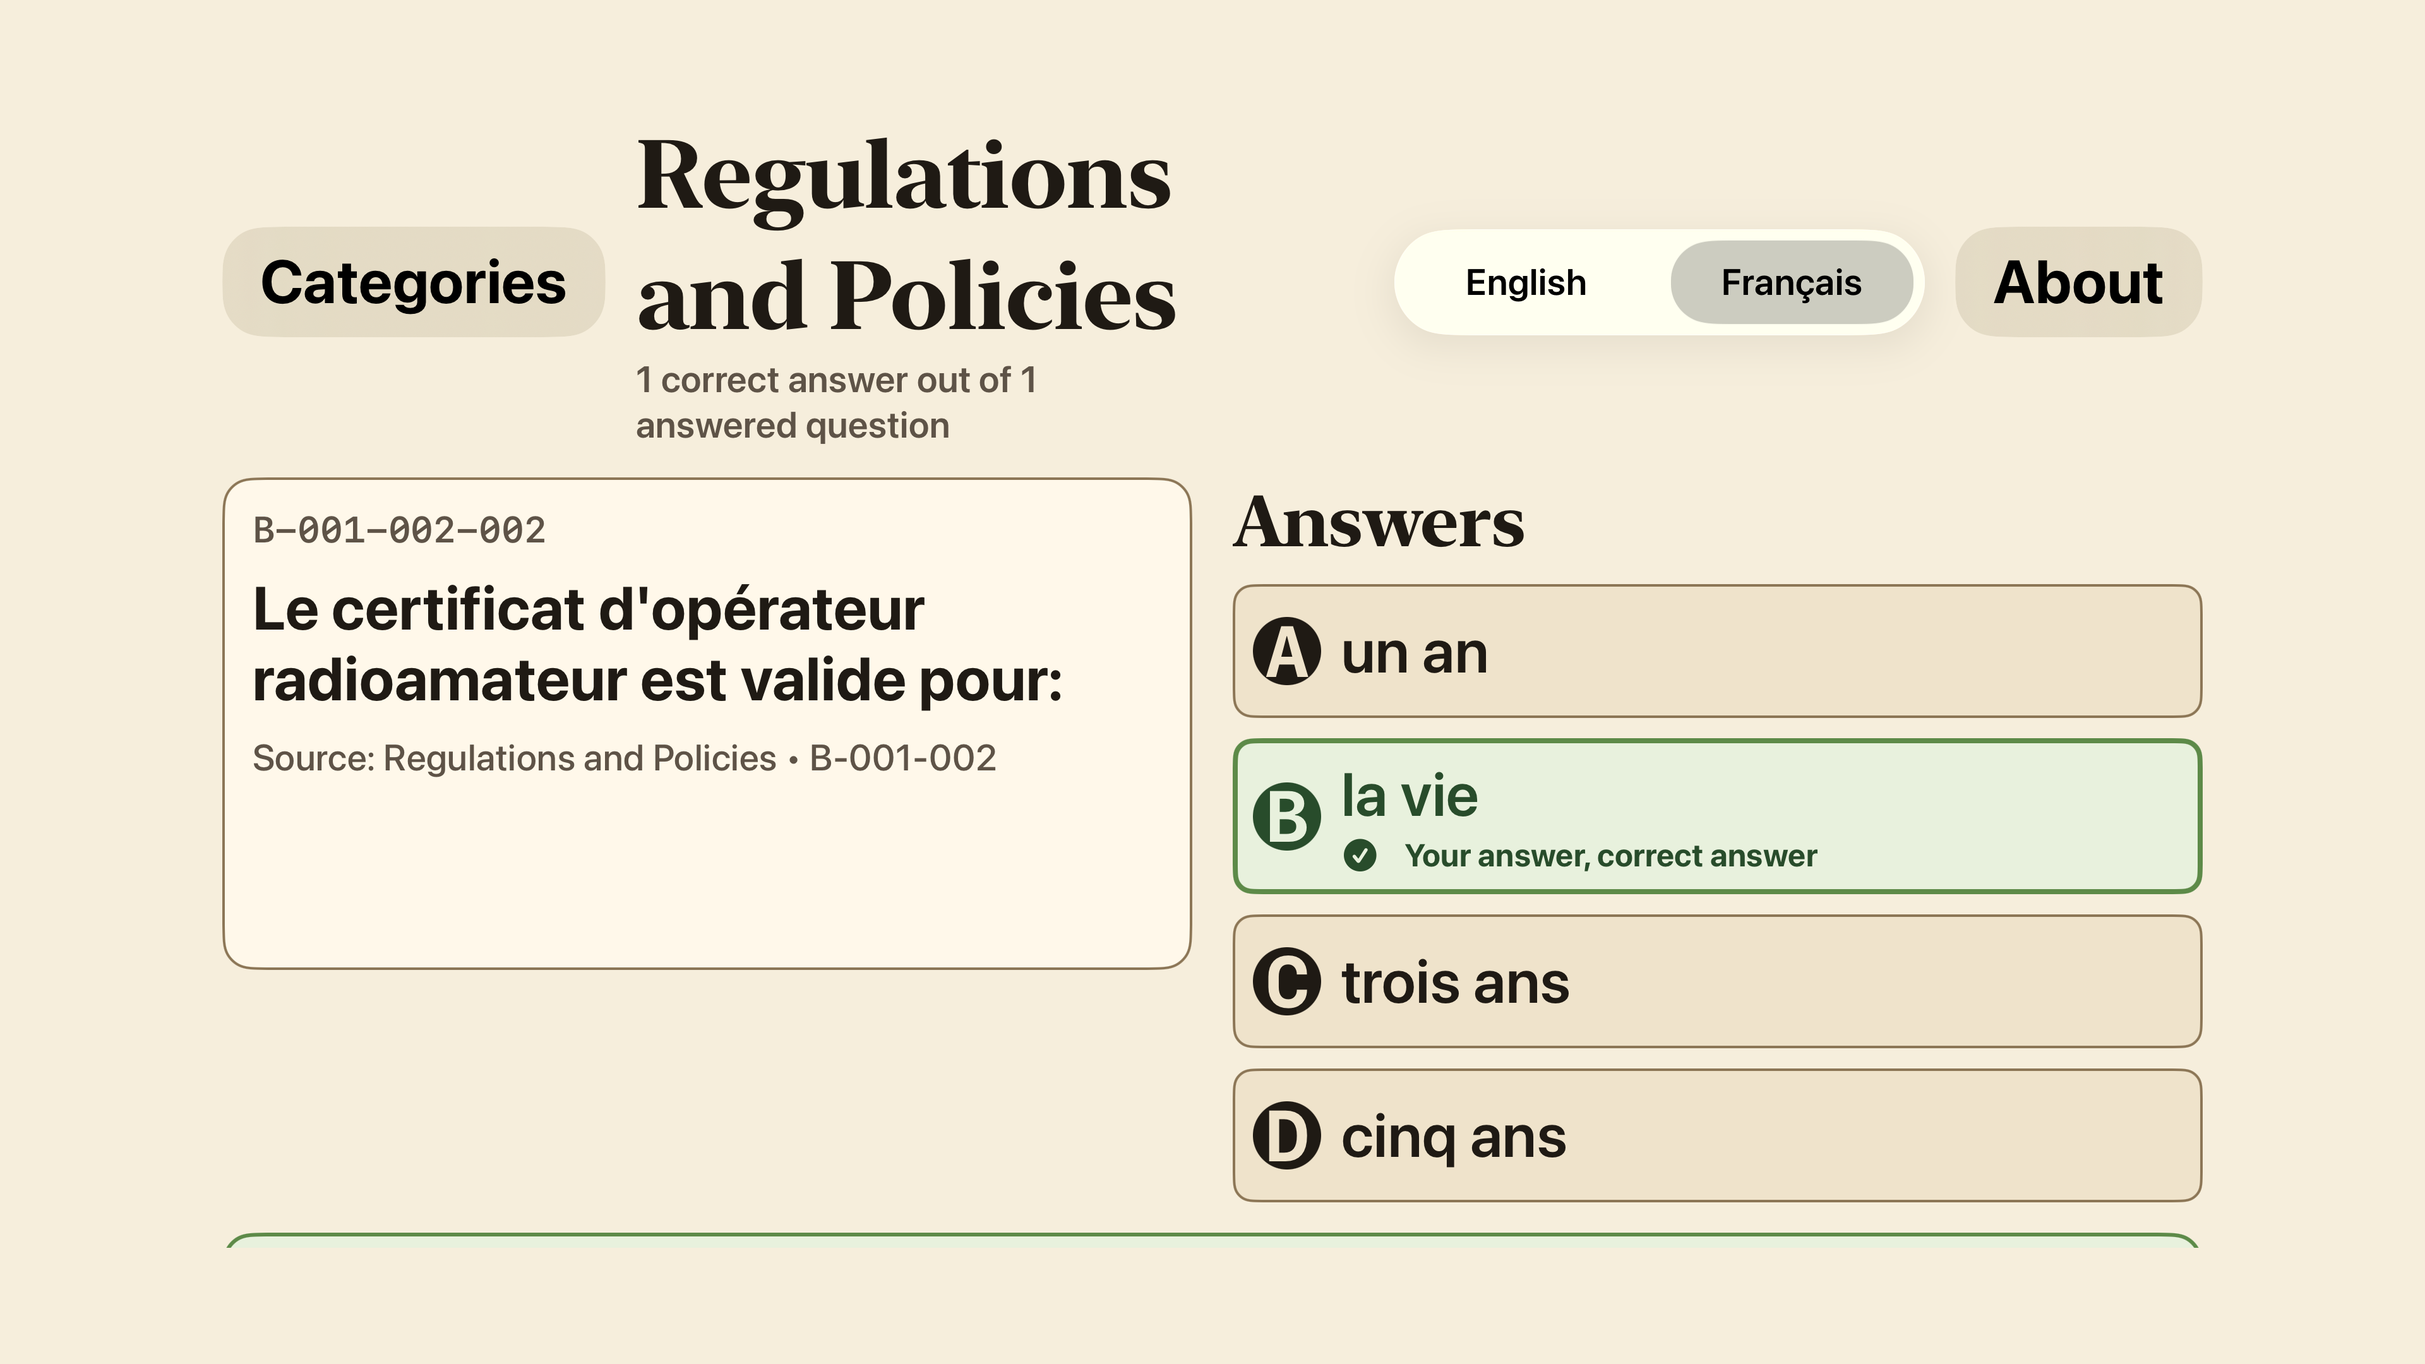
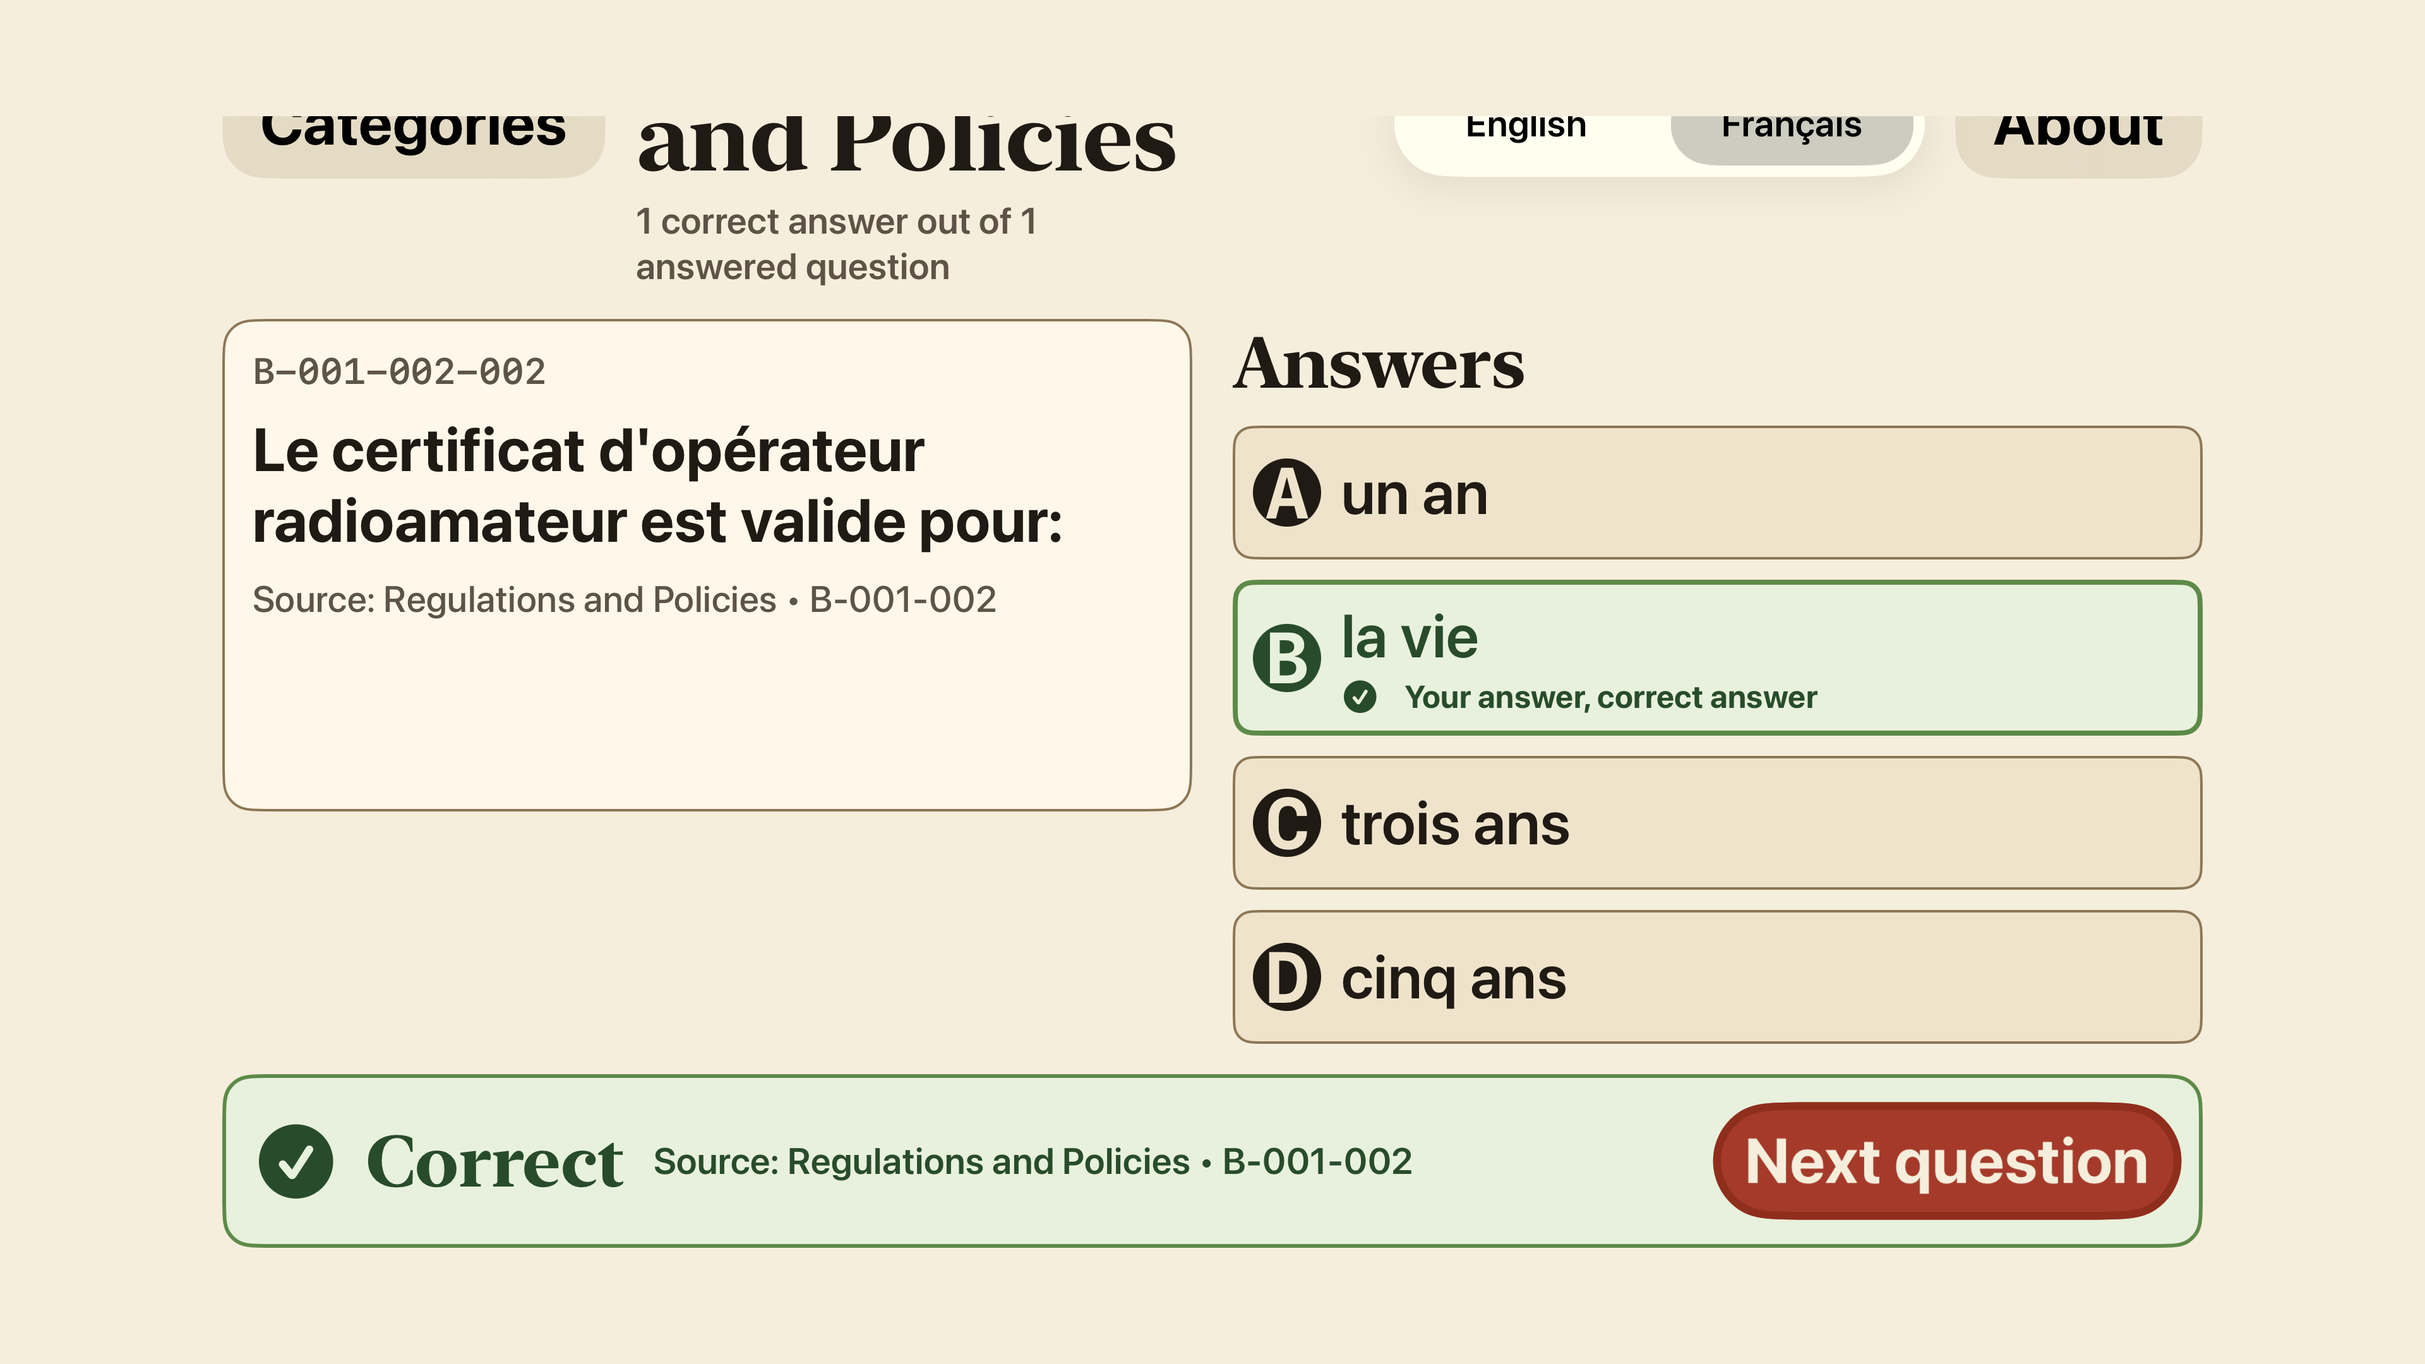
Fix Apple accessibility review follow-ups

diff --git a/apps/apple/Platforms/tvOS/CanadianHamTVApp.swift b/apps/apple/Platforms/tvOS/CanadianHamTVApp.swift
@@ -257,56 +257,63 @@ private struct TVPracticeView: View {
     }
 
     var body: some View {
-        ScrollView {
-            VStack(alignment: .leading, spacing: DesignTokens.Spacing.xl) {
-                TVTopBar(
-                    title: localized(category.name.text(for: language), language: language),
-                    subtitle: Text(localizedCorrectOutOfAnswered(correct: session.correctCount, answered: session.answeredCount)), // l10n: localized
-                    language: $language,
-                    onAbout: onAbout,
-                    leadingAction: ("Categories", onCategories)
-                )
+        ScrollViewReader { scrollProxy in
+            ScrollView {
+                VStack(alignment: .leading, spacing: DesignTokens.Spacing.xl) {
+                    TVTopBar(
+                        title: localized(category.name.text(for: language), language: language),
+                        subtitle: Text(localizedCorrectOutOfAnswered(correct: session.correctCount, answered: session.answeredCount)), // l10n: localized
+                        language: $language,
+                        onAbout: onAbout,
+                        leadingAction: ("Categories", onCategories)
+                    )
 
-                if let errorMessage = session.errorMessage {
-                    TVMessageView(title: "Practice unavailable", message: errorMessage, systemImage: "exclamationmark.triangle.fill")
-                } else if let currentQuestion = session.currentQuestion {
-                    HStack(alignment: .top, spacing: DesignTokens.Spacing.xxl) {
-                        TVQuestionPanel(question: currentQuestion, category: category, language: language)
-                            .frame(maxWidth: .infinity, alignment: .leading)
-                        VStack(alignment: .leading, spacing: DesignTokens.Spacing.lg) {
-                            Text("Answers")
-                                .font(DesignTokens.FontScale.title.weight(.bold))
-                                .foregroundStyle(DesignTokens.Colors.ink)
-                                .accessibilityAddTraits(.isHeader)
-                            ForEach(session.shuffledAnswers) { answer in
-                                TVAnswerButton(
-                                    answer: answer,
-                                    displayLetter: displayLetter(for: answer.displayIndex),
-                                    language: language,
-                                    selectedSourceIndex: session.selectedSourceIndex,
-                                    action: { select(answer) }
-                                )
+                    if let errorMessage = session.errorMessage {
+                        TVMessageView(title: "Practice unavailable", message: errorMessage, systemImage: "exclamationmark.triangle.fill")
+                    } else if let currentQuestion = session.currentQuestion {
+                        HStack(alignment: .top, spacing: DesignTokens.Spacing.xxl) {
+                            TVQuestionPanel(question: currentQuestion, category: category, language: language)
+                                .frame(maxWidth: .infinity, alignment: .leading)
+                            VStack(alignment: .leading, spacing: DesignTokens.Spacing.lg) {
+                                Text("Answers")
+                                    .font(DesignTokens.FontScale.title.weight(.bold))
+                                    .foregroundStyle(DesignTokens.Colors.ink)
+                                    .accessibilityAddTraits(.isHeader)
+                                ForEach(session.shuffledAnswers) { answer in
+                                    TVAnswerButton(
+                                        answer: answer,
+                                        displayLetter: displayLetter(for: answer.displayIndex),
+                                        language: language,
+                                        selectedSourceIndex: session.selectedSourceIndex,
+                                        action: { select(answer) }
+                                    )
+                                }
                             }
+                            .frame(maxWidth: .infinity, alignment: .leading)
                         }
-                        .frame(maxWidth: .infinity, alignment: .leading)
-                    }
 
-                    if let selectedAnswer, let correctAnswer {
-                        TVFeedbackBar(
-                            selectedAnswer: selectedAnswer,
-                            correctAnswer: correctAnswer,
-                            category: category,
-                            question: currentQuestion,
-                            language: language,
-                            onNext: loadNextQuestion
-                        )
+                        if let selectedAnswer, let correctAnswer {
+                            TVFeedbackBar(
+                                selectedAnswer: selectedAnswer,
+                                correctAnswer: correctAnswer,
+                                category: category,
+                                question: currentQuestion,
+                                language: language,
+                                onNext: loadNextQuestion
+                            )
+                            .id(Self.feedbackAnchorID)
+                        }
+                    } else {
+                        TVMessageView(title: "No questions", message: String(localized: "This category has no bundled questions."), systemImage: "questionmark.circle")
                     }
-                } else {
-                    TVMessageView(title: "No questions", message: String(localized: "This category has no bundled questions."), systemImage: "questionmark.circle")
                 }
+                .frame(maxWidth: .infinity, alignment: .leading)
+                .padding(.bottom, DesignTokens.Spacing.xxl)
             }
-            .frame(maxWidth: .infinity, alignment: .leading)
-            .padding(.bottom, DesignTokens.Spacing.xxl)
+            .onChange(of: session.selectedSourceIndex) { _, selectedSourceIndex in
+                guard selectedSourceIndex != nil else { return }
+                scrollFeedbackIntoView(with: scrollProxy)
+            }
         }
         .onAppear {
             session.resetIfNeeded(for: category.id)
@@ -315,6 +322,17 @@ private struct TVPracticeView: View {
             }
         }
         .accessibilityIdentifier("tv-practice-screen")
+    }
+
+    private static let feedbackAnchorID = "tv-feedback-anchor"
+
+    private func scrollFeedbackIntoView(with proxy: ScrollViewProxy) {
+        Task { @MainActor in
+            try? await Task.sleep(nanoseconds: 150_000_000)
+            withAnimation(reduceMotion ? nil : .easeInOut(duration: DesignTokens.Motion.fast)) {
+                proxy.scrollTo(Self.feedbackAnchorID, anchor: .bottom)
+            }
+        }
     }
 
     private func select(_ answer: ShuffledAnswer) {
@@ -756,7 +774,7 @@ private struct LocalizedErrorMessageText: View {
         VStack(alignment: .leading, spacing: DesignTokens.Spacing.xs) {
             Text(parts.summary) // l10n: localized
             if let detail = parts.detail {
-                Text(english(detail)) // l10n: content(en)
+                Text(detail) // l10n: localized
             }
         }
     }

diff --git a/apps/apple/CanadianHamTVUITests/CanadianHamTVUITests.swift b/apps/apple/CanadianHamTVUITests/CanadianHamTVUITests.swift
@@ -43,7 +43,8 @@ final class CanadianHamTVUITests: XCTestCase {
         assertNextQuestionIsSeparateButton(nextQuestion, feedback: feedback)
         waitForFocus(on: nextQuestion)
         XCTAssertTrue(nextQuestion.hasFocus, "Next question should receive tvOS focus after answering before Select is pressed")
-        attachFocusedNextQuestionScreenshot(nextQuestion, in: app)
+        assertFocusedNextQuestionIsOnScreen(nextQuestion, in: app)
+        attachFocusedNextQuestionScreenshot(nextQuestion)
 
         remote.press(.select)
         waitForElementToDisappear(feedback, timeout: 5, message: "Feedback should disappear after advancing to the next question with the remote")
@@ -148,7 +149,27 @@ final class CanadianHamTVUITests: XCTestCase {
         }
     }
 
-    private func attachFocusedNextQuestionScreenshot(_ element: XCUIElement, in app: XCUIApplication) {
+    private func assertFocusedNextQuestionIsOnScreen(
+        _ element: XCUIElement,
+        in app: XCUIApplication,
+        file: StaticString = #filePath,
+        line: UInt = #line
+    ) {
+        XCTAssertTrue(element.exists, "Next question must exist before capturing focus-ring evidence", file: file, line: line)
+        XCTAssertTrue(element.isHittable, "Focused Next question button must be hittable before capturing focus-ring evidence", file: file, line: line)
+
+        let window = app.windows.firstMatch
+        XCTAssertTrue(window.waitForExistence(timeout: 5), "App window should exist before capturing focus-ring evidence", file: file, line: line)
+        XCTAssertFalse(element.frame.isEmpty, "Next question frame should be non-empty before capture", file: file, line: line)
+        XCTAssertTrue(
+            window.frame.insetBy(dx: -1, dy: -1).contains(element.frame),
+            "Focused Next question frame \(element.frame) should be inside the app window \(window.frame) before capture",
+            file: file,
+            line: line
+        )
+    }
+
+    private func attachFocusedNextQuestionScreenshot(_ element: XCUIElement) {
         XCTAssertTrue(element.hasFocus, "Next question must be focused before capturing focus-ring evidence")
         RunLoop.current.run(until: Date().addingTimeInterval(1.0))
         let screenshot = XCUIScreen.main.screenshot()
@@ -156,15 +177,6 @@ final class CanadianHamTVUITests: XCTestCase {
         attachment.name = "tvos-next-question-focus-ring"
         attachment.lifetime = .keepAlways
         add(attachment)
-
-        guard let evidencePath = ProcessInfo.processInfo.environment["CANADIAN_HAM_TV_FOCUS_EVIDENCE_PATH"], !evidencePath.isEmpty else { return }
-        do {
-            let url = URL(fileURLWithPath: evidencePath)
-            try FileManager.default.createDirectory(at: url.deletingLastPathComponent(), withIntermediateDirectories: true, attributes: nil)
-            try screenshot.pngRepresentation.write(to: url, options: .atomic)
-        } catch {
-            XCTFail("Unable to write tvOS focus evidence screenshot: \(error)")
-        }
     }
 
     private func waitForElementToDisappear(

diff --git a/apps/apple/CanadianHam/Views/RootView.swift b/apps/apple/CanadianHam/Views/RootView.swift
@@ -301,7 +301,7 @@ struct RootView: View {
         do {
 #if DEBUG
             if ProcessInfo.processInfo.arguments.contains("-CanadianHamForceStoreOpenError") {
-                throw ProgressStoreError.openFailed("Forced store open failure for UI testing.")
+                throw ProgressStoreError.openFailed(localizedForcedStoreOpenFailureForUITesting())
             }
             if ProcessInfo.processInfo.arguments.contains("-CanadianHamResetDataOnLaunch") {
                 ProgressStoreService.resetPersistentStoreFiles()
@@ -430,6 +430,10 @@ private func localizedQuestionCount(_ count: Int) -> String {
 
 private func localizedSubsectionCount(_ count: Int) -> String {
     String.localizedStringWithFormat(String(localized: "%lld subsections"), count)
+}
+
+private func localizedForcedStoreOpenFailureForUITesting() -> String {
+    String(localized: "Forced store open failure for UI testing.")
 }
 
 private struct StoreRecoveryView: View {

diff --git a/apps/apple/CanadianHam/Views/StudyViews.swift b/apps/apple/CanadianHam/Views/StudyViews.swift
@@ -1122,7 +1122,8 @@ struct MockExamView: View {
     private func focusResultsHeadingAfterLayout() {
         guard shouldFocusResultsHeading else { return }
         Task { @MainActor in
-            await Task.yield()
+            // Let SwiftUI finish replacing the active exam view before requesting VoiceOver focus.
+            try? await Task.sleep(nanoseconds: 150_000_000)
             resultFocus = .resultsHeading
             shouldFocusResultsHeading = false
         }
@@ -1622,7 +1623,7 @@ struct LocalizedErrorMessageText: View {
         VStack(alignment: .leading, spacing: DesignTokens.Spacing.xs) {
             Text(parts.summary) // l10n: localized
             if let detail = parts.detail {
-                Text(localized(detail, language: .english)) // l10n: content(en)
+                Text(detail) // l10n: localized
             }
         }
     }

diff --git a/apps/apple/CanadianHamTests/LocalizationCatalogTests.swift b/apps/apple/CanadianHamTests/LocalizationCatalogTests.swift
@@ -62,6 +62,15 @@ final class LocalizationCatalogTests: XCTestCase {
             "Rétroaction immédiate"
         )
 
+        let missingResourceFormat = frenchBundle.localizedString(forKey: "Missing bundled resource: %@.json", value: nil, table: nil)
+        XCTAssertEqual(
+            String(format: missingResourceFormat, locale: locale, "manifest"),
+            "Ressource intégrée manquante : manifest.json"
+        )
+        XCTAssertEqual(
+            frenchBundle.localizedString(forKey: "Forced store open failure for UI testing.", value: nil, table: nil),
+            "Échec forcé de l’ouverture du stockage pour les tests d’interface."
+        )
         XCTAssertEqual(localizedAnsweredOutOfTotal(answered: 3, total: 100), "Answered 3 of 100")
     }
 

diff --git a/apps/apple/Platforms/visionOS/CanadianHamVisionApp.swift b/apps/apple/Platforms/visionOS/CanadianHamVisionApp.swift
@@ -747,7 +747,7 @@ private struct LocalizedErrorMessageText: View {
         VStack(alignment: .leading, spacing: DesignTokens.Spacing.xs) {
             Text(parts.summary) // l10n: localized
             if let detail = parts.detail {
-                Text(verbatim: detail) // l10n: verbatim
+                Text(detail) // l10n: localized
             }
         }
     }

diff --git a/apps/apple/CanadianHam/Services/QuestionBankStore.swift b/apps/apple/CanadianHam/Services/QuestionBankStore.swift
@@ -6,7 +6,7 @@ enum QuestionBankLoadError: Error, LocalizedError, Sendable {
     var errorDescription: String? {
         switch self {
         case .missingResource(let name):
-            "Missing bundled resource: \(name).json"
+            String(localized: "Missing bundled resource: \(name).json")
         }
     }
 }
